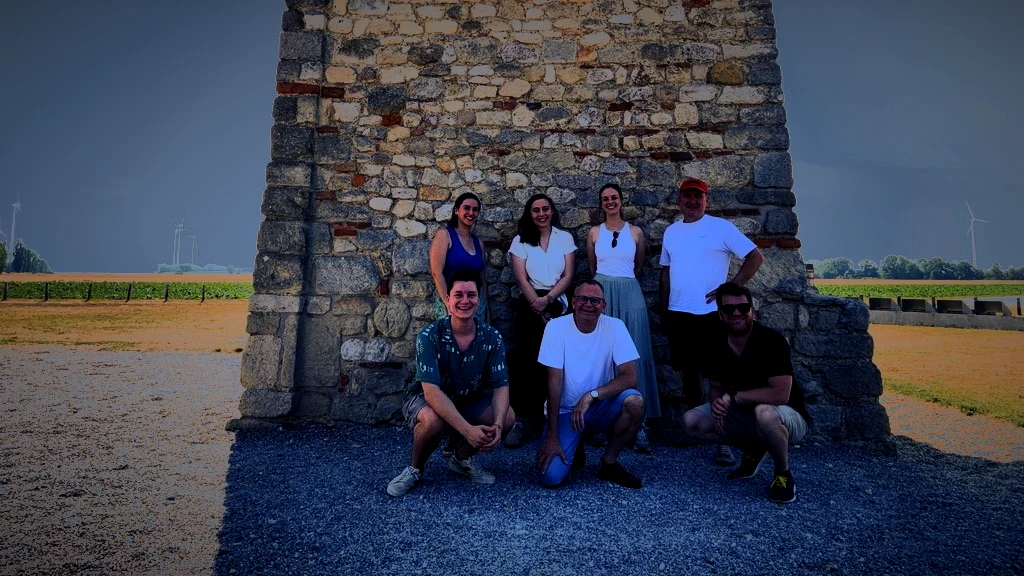
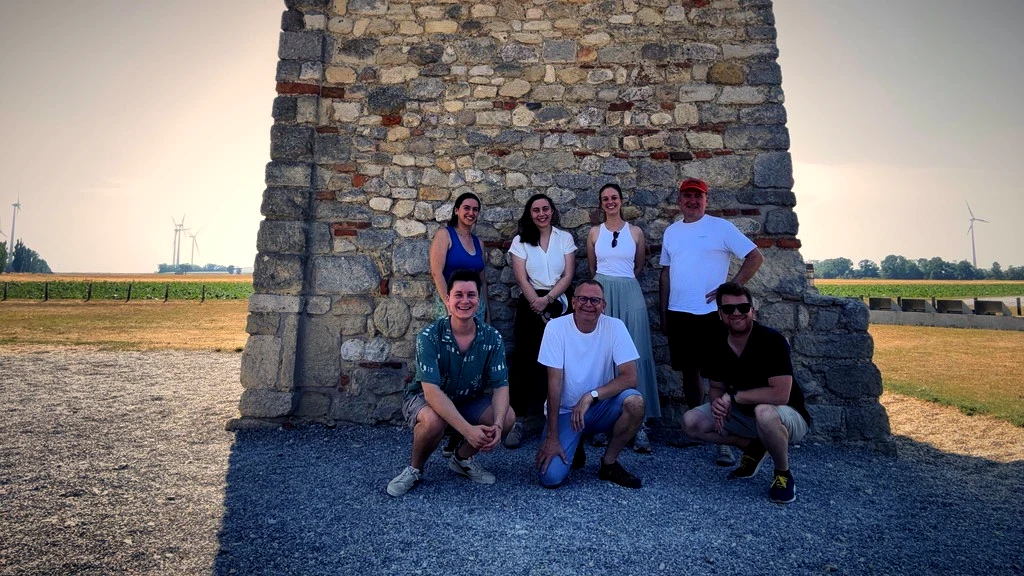
Update image to clean cinematic color grading and update text to Roman City of Carnuntum

diff --git a/index.html b/index.html
@@ -178,11 +178,11 @@
 <div style="padding: 2.5rem; flex: 1;">
 <p style="color: var(--terracotta); font-size: 0.8rem; font-weight: 700; text-transform: uppercase; letter-spacing: 0.1em; margin-bottom: 0.5rem;">30 June 2026</p>
 <h3>Excursion: LEGION @ Carnuntum</h3>
-<p class="news-text-scrollable">The LEGION project team went on a field trip to <a href="https://www.carnuntum.at/en" rel="noopener" style="color: inherit; text-decoration: underline;" target="_blank">Roman City Carnuntum</a> and visited the Archaeological Central Depot at Kulturfabrik Hainburg. Guided by Christian Gugl, the team gained valuable insights into ancient urban structures and extensive artifact repositories. We would like to express our sincere gratitude for the generous support from the <a href="https://www.landessammlungen-noe.at/" rel="noopener" style="color: inherit; text-decoration: underline;" target="_blank">Lower Austrian State Collections</a> (Landessammlungen NÖ), the <a href="https://www.donau-uni.ac.at/en/university/faculties/education-arts-architecture/departments/arts-cultural-studies/centers/center-for-museum-collections-management.html" rel="noopener" style="color: inherit; text-decoration: underline;" target="_blank">Center for Museum Collections Management</a> at the University for Continuing Education Krems (UWK), and <a href="https://www.carnuntum.at/en" rel="noopener" style="color: inherit; text-decoration: underline;" target="_blank">Roman City Carnuntum</a>.</p>
+<p class="news-text-scrollable">The LEGION project team went on a field trip to <a href="https://www.carnuntum.at/en" rel="noopener" style="color: inherit; text-decoration: underline;" target="_blank">Roman City of Carnuntum</a> and visited the Archaeological Central Depot at Kulturfabrik Hainburg. Guided by Christian Gugl, the team gained valuable insights into ancient urban structures and extensive artifact repositories. We would like to express our sincere gratitude for the generous support from the <a href="https://www.landessammlungen-noe.at/" rel="noopener" style="color: inherit; text-decoration: underline;" target="_blank">Lower Austrian State Collections</a> (Landessammlungen NÖ), the <a href="https://www.donau-uni.ac.at/en/university/faculties/education-arts-architecture/departments/arts-cultural-studies/centers/center-for-museum-collections-management.html" rel="noopener" style="color: inherit; text-decoration: underline;" target="_blank">Center for Museum Collections Management</a> at the University for Continuing Education Krems (UWK), and <a href="https://www.carnuntum.at/en" rel="noopener" style="color: inherit; text-decoration: underline;" target="_blank">Roman City of Carnuntum</a>.</p>
 <div style="margin-top: 1rem; display: flex; gap: 1rem; flex-wrap: wrap;">
 <a href="https://www.landessammlungen-noe.at/" rel="noopener" style="color: var(--terracotta); text-decoration: none; font-size: 0.9rem; font-weight: 600;" target="_blank">Landessammlungen NÖ →</a>
 <a href="https://www.donau-uni.ac.at/en/university/faculties/education-arts-architecture/departments/arts-cultural-studies/centers/center-for-museum-collections-management.html" rel="noopener" style="color: var(--terracotta); text-decoration: none; font-size: 0.9rem; font-weight: 600;" target="_blank">UWK →</a>
-<a href="https://www.carnuntum.at/en" rel="noopener" style="color: var(--terracotta); text-decoration: none; font-size: 0.9rem; font-weight: 600;" target="_blank">Roman City Carnuntum →</a>
+<a href="https://www.carnuntum.at/en" rel="noopener" style="color: var(--terracotta); text-decoration: none; font-size: 0.9rem; font-weight: 600;" target="_blank">Roman City of Carnuntum →</a>
 </div>
 </div>
 </div>
